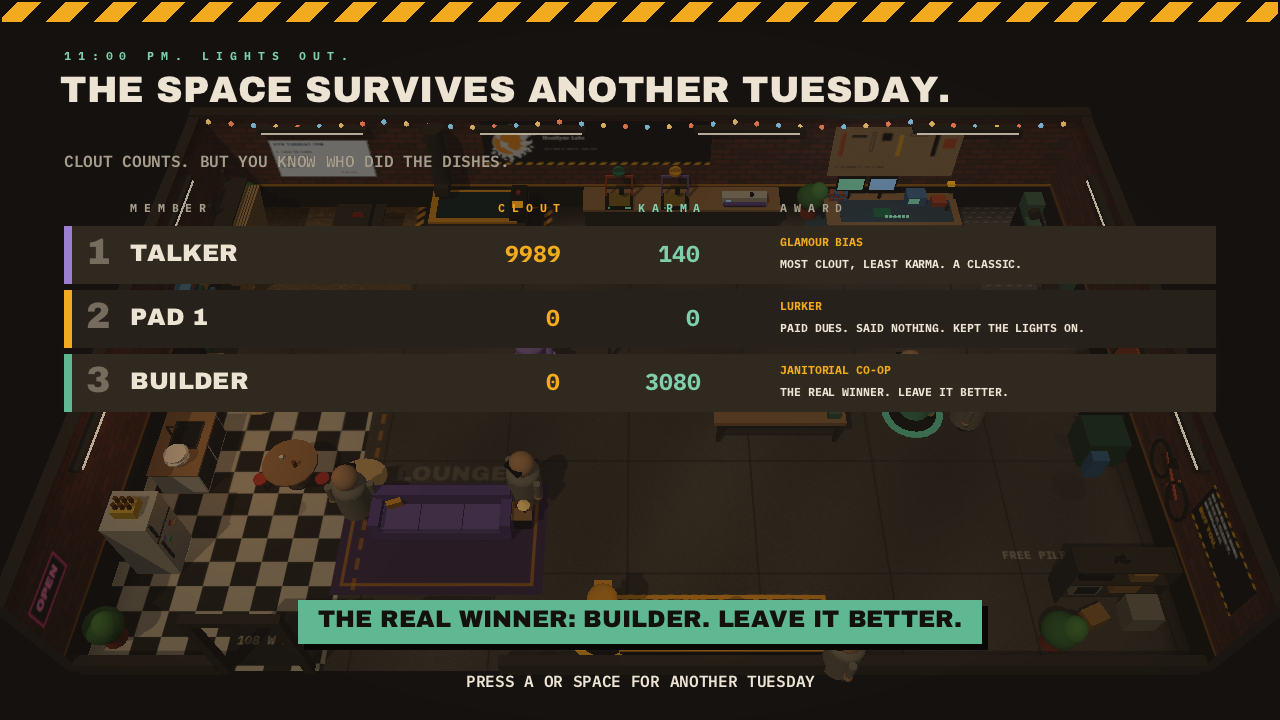
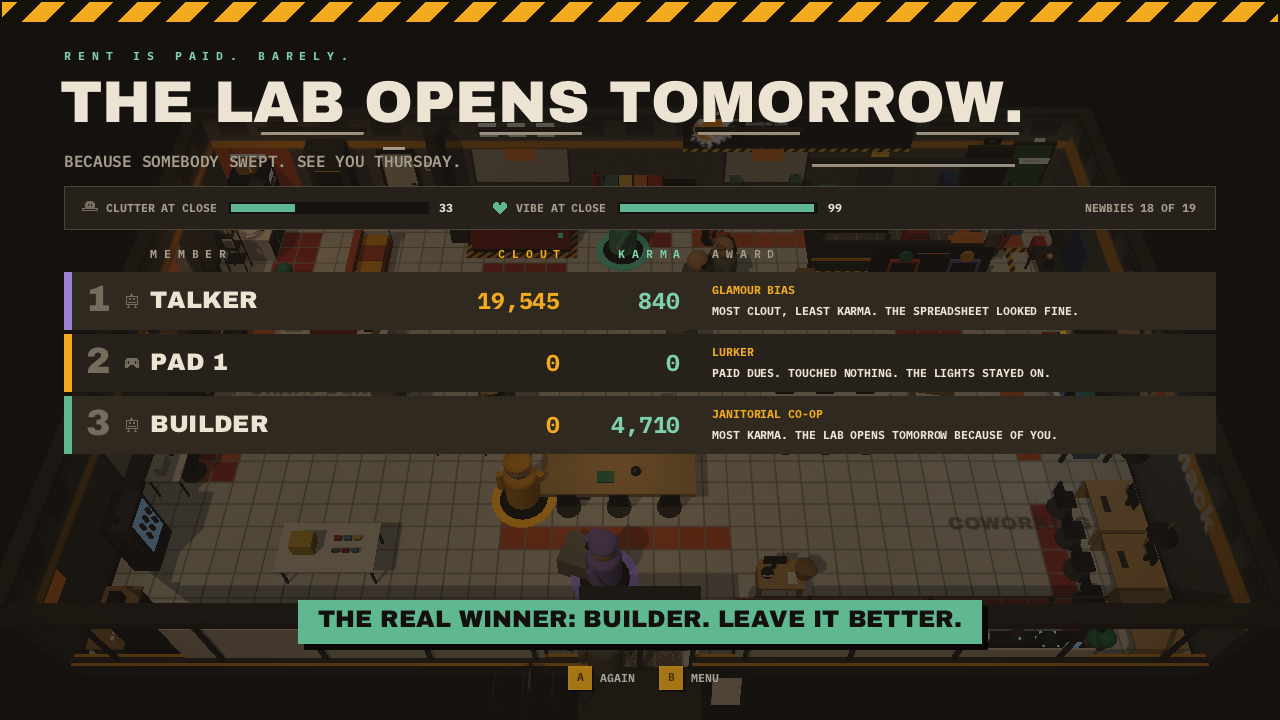
New title, night and results screenshots from the acceptance run

diff --git a/HANDOFF.md b/HANDOFF.md
@@ -100,7 +100,7 @@ tools/accept.sh                    # build, then every check below; prints GREEN
 NOBUILD=1 tools/accept.sh          # reuse build/do-ocracy.wasc
 ```
 
-It does, in order: `build/smoke` (level_check over the five levels, natively), `tools/gapcheck.py` (the Python port over `build/smoke --json`), `tools/lint-content.py` (dashes and emoji anywhere, bytes outside printable ASCII and lower case in game strings, glyph rows of 16, flash captions of six words at most, toasts and awards up to 64 characters, banners up to 48), then the scripted sessions: `tools/accept/idle.json` (title, attract and back), `claim.json` (claim, deny, MODES, SETTINGS, PLAY, flash, lobby, READY, a CO-OP night with a pause, results, B to the menu; it also dumps the save region and a WAV), `second-night.json` (the same group again: no flash, no coach), `regroup.json` (a solo player idles out, the group resets to the title and the next PLAY plays the flash again), `idle-owner.json` and `idle-owner2.json` (the owner idle rule with and without a seat at the door), `lobby-geom.json` (lobby geometry and the owner's hold B to the menu), `credits.json`, and the five nights in `tools/scripts/level-k.json`. Each log is grepped for the level_check errors, BOT_STILL (a bot that moved less than 0.5 in 10 s outside a hold, printed by game.c) and missing or generated render states; the save region goes through `tools/accept/check-save.mjs` and the WAV through `tools/wavpeak.mjs` (any full scale sample fails). At the end of each night game.c prints VISITS (bot visits per station) and a NOVISIT line for each station no bot went near; those are notes, not failures. The screenshots land in `build/shots/acc-*.png`; check them against the tables in FINAL-frontend.md section 10 and FINAL-space.md section 13 by eye. The runs share the GPU and run slower together than one after another, so the default is one at a time; the whole run takes about fifteen minutes on an Apple Silicon Mac.
+It does, in order: `build/smoke` (level_check over the five levels, natively), `tools/gapcheck.py` (the Python port over `build/smoke --json`), `tools/lint-content.py` (dashes and emoji anywhere, bytes outside printable ASCII and lower case in game strings, glyph rows of 16, flash captions of six words at most, toasts and awards up to 64 characters, banners up to 48), then the scripted sessions: `tools/accept/idle.json` (title, attract and back), `claim.json` (claim, deny, MODES, SETTINGS, PLAY, flash, lobby, READY, a CO-OP night with a pause, results, B to the menu; it also dumps the save region and a WAV), `second-night.json` (the same group again: no flash, no coach), `regroup.json` (a solo player idles out, the group resets to the title and the next PLAY plays the flash again), `idle-owner.json` and `idle-owner2.json` (the owner idle rule with and without a seat at the door), `lobby-geom.json` (lobby geometry and the owner's hold B to the menu), `credits.json`, and the five nights in `tools/scripts/level-k.json`. Each log is grepped for the level_check errors, BOT_STILL (a bot that moved less than 0.5 in 10 s outside a hold, printed by game.c) and missing or generated render states; the save region goes through `tools/accept/check-save.mjs` and the WAV through `tools/wavpeak.mjs` (any full scale sample fails). At the end of each night game.c prints VISITS (bot visits per station) and a NOVISIT line for each station no bot went near; those are notes, not failures. The screenshots land in `build/shots/acc-*.png`; check them against the tables in FINAL-frontend.md section 10 and FINAL-space.md section 13 by eye. The runs share the GPU and run slower together than one after another, so the default is one at a time; the whole run takes about twenty minutes on an Apple Silicon Mac.
 
 Other tools:
 
